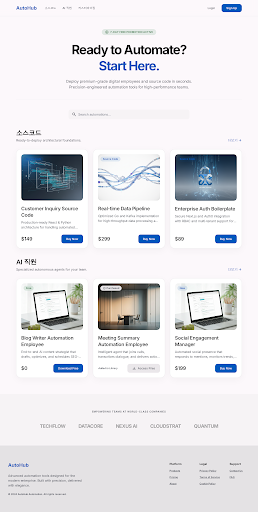
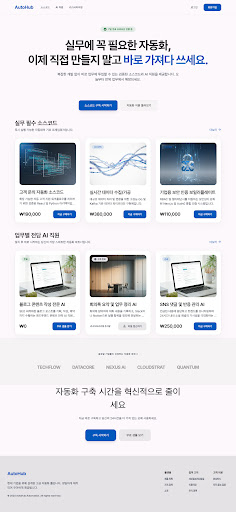
feat: redesign landing page based on Stitch screen specs

diff --git a/src/Landing.jsx b/src/Landing.jsx
@@ -1,82 +1,275 @@
-import React from 'react';
+import React, { useState, useEffect } from 'react';
 import { useNavigate } from 'react-router-dom';
+import { db, auth } from './firebase';
+import { collection, getDocs, addDoc, query, where } from 'firebase/firestore';
 import { useLanguage } from './LanguageContext';
+import { useToast } from './ToastContext';
+import { DEFAULT_CATALOG } from './defaultCatalog';
+
+const withTimeout = (promise, ms = 1000) => {
+  return Promise.race([
+    promise,
+    new Promise((_, reject) => setTimeout(() => reject(new Error("Firebase Timeout")), ms))
+  ]);
+};
 
 export default function Landing() {
-  const { lang, t } = useLanguage();
+  const [catalog, setCatalog] = useState([]);
+  const { lang, formatPrice, t } = useLanguage();
+  const { showToast } = useToast();
   const navigate = useNavigate();
 
+  useEffect(() => {
+    const fetchCatalog = async () => {
+      const merged = {};
+      DEFAULT_CATALOG.forEach((item) => {
+        merged[item.id] = item;
+      });
+
+      try {
+        const querySnapshot = await withTimeout(getDocs(collection(db, "catalog")));
+        querySnapshot.forEach((doc) => {
+          merged[doc.id] = { ...merged[doc.id], id: doc.id, ...doc.data() };
+        });
+      } catch (err) {
+        console.warn("Firestore get error (using DEFAULT_CATALOG only):", err);
+      }
+
+      try {
+        const localCustom = JSON.parse(localStorage.getItem("autohub_custom_catalog") || "{}");
+        Object.values(localCustom).forEach((item) => {
+          merged[item.id] = { ...merged[item.id], ...item };
+        });
+      } catch { /* ignore */ }
+
+      setCatalog(Object.values(merged));
+    };
+    fetchCatalog();
+  }, []);
+
+  const handleCheckout = async (productId, isFree) => {
+    const user = auth.currentUser;
+    const userUid = user ? user.uid : "demo-user-123";
+    
+    try {
+      let alreadyExists = false;
+      try {
+        const q = query(
+          collection(db, "libraries"),
+          where("userId", "==", userUid),
+          where("productId", "==", productId)
+        );
+        const existing = await withTimeout(getDocs(q));
+        alreadyExists = !existing.empty;
+      } catch (err) {
+        const localLibs = JSON.parse(localStorage.getItem("autohub_libraries") || "[]");
+        alreadyExists = localLibs.some(lib => lib.userId === userUid && lib.productId === productId);
+      }
+
+      if (alreadyExists) {
+        showToast(t.alreadyToast, "info");
+        navigate('/mypage');
+        return;
+      }
+
+      if (isFree) {
+        try {
+          await withTimeout(addDoc(collection(db, "libraries"), {
+            userId: userUid,
+            productId: productId,
+            method: "Free Promo",
+            unlockedAt: new Date()
+          }));
+        } catch (dbErr) {
+          const localLibs = JSON.parse(localStorage.getItem("autohub_libraries") || "[]");
+          localLibs.push({
+            userId: userUid,
+            productId: productId,
+            method: "Free Promo",
+            unlockedAt: new Date().toISOString()
+          });
+          localStorage.setItem("autohub_libraries", JSON.stringify(localLibs));
+        }
+        showToast("라이브러리에 추가되었습니다!", "success");
+        navigate('/mypage');
+      } else {
+        const tossCheckout = confirm(lang === 'ko' ? "결제를 진행하시겠습니까? (토스페이먼츠 시뮬레이션)" : "Proceed with checkout? (Toss Payments simulation)");
+        if (tossCheckout) {
+          try {
+            await withTimeout(addDoc(collection(db, "libraries"), {
+              userId: userUid,
+              productId: productId,
+              method: "Paid",
+              unlockedAt: new Date()
+            }));
+          } catch (dbErr) {
+            const localLibs = JSON.parse(localStorage.getItem("autohub_libraries") || "[]");
+            localLibs.push({
+              userId: userUid,
+              productId: productId,
+              method: "Paid",
+              unlockedAt: new Date().toISOString()
+            });
+            localStorage.setItem("autohub_libraries", JSON.stringify(localLibs));
+          }
+          showToast(t.paymentSuccess, "success");
+          navigate('/mypage');
+        }
+      }
+    } catch (err) {
+      console.error(err);
+      showToast("오류가 발생했습니다.", "error");
+    }
+  };
+
+  const sourceCodes = catalog.filter(p => p.type === '소스코드');
+  const aiEmployees = catalog.filter(p => p.type === 'AI 직원');
+
   return (
-    <div>
-      {/* Hero Section */}
+    <div className="bg-background text-on-background">
+      {/* Apple-Style Hero Header */}
       <header className="pt-40 pb-20 px-margin-mobile md:px-margin-desktop overflow-hidden">
         <div className="max-w-container-max mx-auto text-center flex flex-col items-center">
-          <div className="inline-flex items-center gap-2 bg-primary/5 text-primary px-4 py-1.5 rounded-full mb-8 border border-primary/10">
-            <span className="material-symbols-outlined text-[18px]">bolt</span>
-            <span className="font-label-sm text-label-sm">Expert Automation Assets</span>
+          <div className="inline-flex items-center gap-2 bg-secondary/10 text-secondary px-4 py-1.5 rounded-full mb-8 border border-secondary/20">
+            <span className="material-symbols-outlined text-[18px]" style={{ fontVariationSettings: "'FILL' 1" }}>stars</span>
+            <span className="font-label-sm text-label-sm tracking-wider uppercase">{t.promoBadge}</span>
           </div>
-          <h1 className="font-headline-lg-mobile md:font-display-lg text-headline-lg-mobile md:text-display-lg text-on-surface mb-6 max-w-[800px]" dangerouslySetInnerHTML={{ __html: t.heroTitle }} />
+          <h1 className="font-headline-lg-mobile md:font-display-lg text-headline-lg-mobile md:text-display-lg text-on-surface mb-6 max-w-[850px] leading-tight tracking-tighter" dangerouslySetInnerHTML={{ __html: t.heroTitle }} />
           <p className="font-body-md text-body-md md:font-body-lg md:text-body-lg text-on-surface-variant mb-10 max-w-[640px]">
             {t.heroDesc}
           </p>
-          <div className="flex flex-col sm:flex-row gap-4">
+          <div className="flex flex-col sm:flex-row gap-4 border-t border-outline-variant/20 pt-10 w-full justify-center">
             <button onClick={() => navigate('/catalog')} className="bg-primary text-on-primary font-label-md text-label-md px-8 py-4 rounded-xl shadow-lg active:scale-95 transition-all btn-animate">
-              소스코드 구독 시작하기
+              {t.btnStartSub}
             </button>
-            <button onClick={() => navigate('/catalog')} className="bg-surface-container-low text-on-surface font-label-md text-label-md px-8 py-4 rounded-xl border border-outline-variant/30 hover:bg-surface-container transition-colors btn-animate">
-              자동화 직원 둘러보기
+            <button onClick={() => navigate('/catalog')} className="bg-surface-container-low text-on-surface font-label-md text-label-md px-8 py-4 rounded-xl border border-outline-variant/30 hover:bg-surface-container-high active:scale-95 transition-all btn-animate">
+              {t.btnBrowseAgents}
             </button>
-          </div>
-          <div className="mt-20 w-full max-w-[1000px] relative">
-            <div className="absolute inset-0 bg-primary/20 blur-[100px] -z-10 rounded-full"></div>
-            <img alt="AutoHub Dashboard Preview" className="w-full h-auto rounded-2xl shadow-2xl border border-outline-variant/20" src="https://lh3.googleusercontent.com/aida-public/AB6AXuCDhpnHRksauDHoN09c78ANLww7sixMpWmGpUvKoeS3UIvAnL8AbUXcq23QBvShgfzzRGN5VXrrl9RvMv9Q8ehC4LeL3-MkYBvS_zjZNKZa4F3yF62PMBGZnMtUF_EfDjBoPc_qmVhkQa0bGYE9X_0fn-XPGP2kjh0DwIMEJYVVGYPTWmypIZPDKWk7nlinA4i0CdFd8-9H4pvj8COM068joq1zpMmq7h5euc1FA01l7JUHxr4aWjm7VV_SkwUB0Ks7Fu1dV5mgGAI"/>
           </div>
         </div>
       </header>
 
-      {/* Problem Statement Section */}
-      <section className="py-20 bg-surface-container-low px-margin-mobile md:px-margin-desktop">
-        <div className="max-w-container-max mx-auto">
-          <h2 className="font-headline-lg text-headline-lg text-center mb-16">자동화가 필요하지만 실행까지가 어렵습니다</h2>
-          <div className="grid grid-cols-1 md:grid-cols-5 gap-6">
-            <div className="bg-white p-8 rounded-2xl border border-outline-variant/30 flex flex-col items-center text-center">
-              <div className="w-12 h-12 bg-primary/10 text-primary rounded-xl flex items-center justify-center mb-6">
-                <span className="material-symbols-outlined">code_off</span>
-              </div>
-              <h3 className="font-label-md text-label-md mb-2">직접 개발 부담</h3>
-              <p className="font-label-sm text-label-sm text-on-surface-variant">코딩 없이 구축하기엔 한계가 명확합니다.</p>
-            </div>
-            <div className="bg-white p-8 rounded-2xl border border-outline-variant/30 flex flex-col items-center text-center">
-              <div className="w-12 h-12 bg-primary/10 text-primary rounded-xl flex items-center justify-center mb-6">
-                <span class="material-symbols-outlined">api</span>
-              </div>
-              <h3 className="font-label-md text-label-md mb-2">복잡한 API 설정</h3>
-              <p className="font-label-sm text-label-sm text-on-surface-variant">각 서비스별 API 연동은 매번 번거롭습니다.</p>
-            </div>
-            <div className="bg-white p-8 rounded-2xl border border-outline-variant/30 flex flex-col items-center text-center">
-              <div className="w-12 h-12 bg-primary/10 text-primary rounded-xl flex items-center justify-center mb-6">
-                <span class="material-symbols-outlined">bug_report</span>
-              </div>
-              <h3 className="font-label-md text-label-md mb-2">테스트 시간 소요</h3>
-              <p className="font-label-sm text-label-sm text-on-surface-variant">오류 수정과 안정화에 너무 많은 시간이 듭니다.</p>
-            </div>
-            <div className="bg-white p-8 rounded-2xl border border-outline-variant/30 flex flex-col items-center text-center">
-              <div className="w-12 h-12 bg-primary/10 text-primary rounded-xl flex items-center justify-center mb-6">
-                <span class="material-symbols-outlined">tune</span>
-              </div>
-              <h3 className="font-label-md text-label-md mb-2">커스텀의 한계</h3>
-              <p className="font-label-sm text-label-sm text-on-surface-variant">범용 툴은 우리 회사만의 로직을 담기 어렵습니다.</p>
-            </div>
-            <div className="bg-white p-8 rounded-2xl border border-outline-variant/30 flex flex-col items-center text-center">
-              <div className="w-12 h-12 bg-primary/10 text-primary rounded-xl flex items-center justify-center mb-6">
-                <span class="material-symbols-outlined">schedule</span>
-              </div>
-              <h3 className="font-label-md text-label-md mb-2">절대적 시간 부족</h3>
-              <p className="font-label-sm text-label-sm text-on-surface-variant">실무를 하면서 자동화까지 챙기기 불가능합니다.</p>
-            </div>
+      {/* Source Code Section (MOVED TO TOP) */}
+      <section className="py-12 px-margin-mobile md:px-margin-desktop max-w-container-max mx-auto">
+        <div className="flex justify-between items-end mb-8">
+          <div>
+            <h2 className="font-headline-lg text-headline-lg font-bold flex items-center gap-2">
+              <span className="material-symbols-outlined text-[28px] text-primary">code</span>
+              {t.secSourceCodeTitle}
+            </h2>
+            <p className="font-body-md text-on-surface-variant mt-1">{t.secSourceCodeDesc}</p>
+          </div>
+          <button onClick={() => navigate('/catalog')} className="flex items-center gap-1 text-primary font-label-md hover:underline group">
+            {t.viewMore}
+            <span className="material-symbols-outlined text-[18px] group-hover:translate-x-1 transition-transform">arrow_forward</span>
+          </button>
+        </div>
+        <div className="grid grid-cols-1 md:grid-cols-2 lg:grid-cols-3 gap-6">
+          {sourceCodes.slice(0, 3).map(product => (
+            <ProductCard key={product.id} product={product} onCheckout={handleCheckout} formatPrice={formatPrice} t={t} lang={lang} />
+          ))}
+        </div>
+      </section>
+
+      {/* AI Employees Section */}
+      <section className="py-12 px-margin-mobile md:px-margin-desktop max-w-container-max mx-auto mb-16">
+        <div className="flex justify-between items-end mb-8">
+          <div>
+            <h2 className="font-headline-lg text-headline-lg font-bold flex items-center gap-2">
+              <span className="material-symbols-outlined text-[28px] text-secondary">support_agent</span>
+              {t.secAiAgentTitle}
+            </h2>
+            <p className="font-body-md text-on-surface-variant mt-1">{t.secAiAgentDesc}</p>
+          </div>
+          <button onClick={() => navigate('/catalog')} className="flex items-center gap-1 text-primary font-label-md hover:underline group">
+            {t.viewMore}
+            <span className="material-symbols-outlined text-[18px] group-hover:translate-x-1 transition-transform">arrow_forward</span>
+          </button>
+        </div>
+        <div className="grid grid-cols-1 md:grid-cols-2 lg:grid-cols-3 gap-6">
+          {aiEmployees.slice(0, 3).map(product => (
+            <ProductCard key={product.id} product={product} onCheckout={handleCheckout} formatPrice={formatPrice} t={t} lang={lang} />
+          ))}
+        </div>
+      </section>
+
+      {/* Trust Section */}
+      <section className="bg-surface-container-low py-16 px-margin-mobile md:px-margin-desktop">
+        <div className="max-w-container-max mx-auto text-center">
+          <p className="font-label-sm text-label-sm uppercase tracking-widest text-on-surface-variant mb-12">
+            {t.trustTitle}
+          </p>
+          <div className="flex flex-wrap justify-center items-center gap-12 md:gap-16 opacity-40 grayscale select-none">
+            <span className="font-headline-md text-headline-md font-bold tracking-tighter">TECHFLOW</span>
+            <span className="font-headline-md text-headline-md font-bold tracking-tighter">DATACORE</span>
+            <span className="font-headline-md text-headline-md font-bold tracking-tighter">NEXUS AI</span>
+            <span className="font-headline-md text-headline-md font-bold tracking-tighter">CLOUDSTRAT</span>
+            <span className="font-headline-md text-headline-md font-bold tracking-tighter">QUANTUM</span>
           </div>
         </div>
       </section>
+
+      {/* CTA Section */}
+      <section className="py-24 text-center px-margin-mobile md:px-margin-desktop max-w-container-max mx-auto">
+        <div className="max-w-3xl mx-auto">
+          <h2 className="font-display-lg text-[36px] md:text-[48px] mb-6 leading-tight font-bold">
+            {t.ctaTitle}
+          </h2>
+          <p className="font-body-lg text-on-surface-variant mb-12">
+            {t.ctaDesc}
+          </p>
+          <div className="flex flex-col sm:flex-row items-center justify-center gap-4">
+            <button onClick={() => navigate('/catalog')} className="w-full sm:w-auto bg-primary text-on-primary font-label-md text-label-md px-10 py-5 rounded-2xl hover:opacity-90 active:scale-95 transition-all shadow-lg btn-animate">
+              {t.btnStartSubBottom}
+            </button>
+            <button onClick={() => navigate('/catalog')} className="w-full sm:w-auto bg-surface-container-high text-on-surface font-label-md text-label-md px-10 py-5 rounded-2xl hover:bg-surface-container-highest active:scale-95 transition-all btn-animate">
+              {t.btnViewSamples}
+            </button>
+          </div>
+        </div>
+      </section>
+    </div>
+  );
+}
+
+function ProductCard({ product, onCheckout, formatPrice, t, lang }) {
+  const isFree = product.price === 0 || product.method === 'Free Promo';
+  const badgeText = isFree ? (lang === 'ko' ? '무료' : 'Free') : (product.type === '소스코드' ? 'Source Code' : 'New');
+  const badgeColor = isFree ? 'bg-secondary/10 text-secondary' : 'bg-primary/10 text-primary';
+  const localizedTitle = lang === 'en' && product.title_en ? product.title_en : product.title;
+  const localizedDesc = lang === 'ko' && product.desc_ko ? product.desc_ko : product.desc;
+
+  const navigate = useNavigate();
+
+  return (
+    <div 
+      onClick={() => navigate(`/product/${product.id}`)}
+      className="product-card bg-surface-container-lowest border border-[#E5E5E7] rounded-[24px] p-6 premium-card-shadow flex flex-col group hover:border-primary/30 transition-all duration-300 premium-card-hover cursor-pointer"
+    >
+      <div className="relative rounded-[16px] overflow-hidden aspect-[4/3] mb-6">
+        <img alt={localizedTitle} className="w-full h-full object-cover transition-transform duration-500 group-hover:scale-105" src={product.image}/>
+        <div className={`absolute top-3 left-3 ${badgeColor} px-3 py-1 rounded-full flex items-center gap-1 backdrop-blur-md`}>
+          <span className="font-label-sm text-label-sm">{badgeText}</span>
+        </div>
+      </div>
+      <div className="flex-grow">
+        <h3 className="font-headline-md text-headline-md mb-2 font-bold">{localizedTitle}</h3>
+        <p className="font-body-md text-body-md text-on-surface-variant line-clamp-2 mb-6">
+          {localizedDesc}
+        </p>
+      </div>
+      <div className="flex items-center justify-between mt-auto">
+        <span className="font-headline-md text-headline-md font-bold">{formatPrice(product.price)}</span>
+        <button 
+          onClick={(e) => {
+            e.stopPropagation();
+            onCheckout(product.id, isFree);
+          }} 
+          className="bg-primary text-on-primary font-label-md text-label-md px-6 py-3 rounded-xl hover:opacity-90 active:scale-95 transition-all btn-animate"
+        >
+          {isFree ? (lang === 'ko' ? '무료 다운로드' : 'Download Free') : (lang === 'ko' ? '구매하기' : 'Buy Now')}
+        </button>
+      </div>
     </div>
   );
 }

diff --git a/src/LanguageContext.jsx b/src/LanguageContext.jsx
@@ -6,8 +6,8 @@ export const useLanguage = () => useContext(LanguageContext);
 
 export const TRANSLATIONS = {
   ko: {
-    heroTitle: "자동화는 필요한데,<br/>매번 직접 만들기 힘드셨나요?",
-    heroDesc: "최고 수준의 소스코드와 24/7 일하는 AI 직원을 통해 반복 업무에서 해방되세요.",
+    heroTitle: "실무에 꼭 필요한 자동화,<br/>이제 직접 만들지 말고&nbsp;<span class=\"text-primary\">바로 가져다 쓰세요.</span>",
+    heroDesc: "복잡한 개발 없이 바로 업무에 투입할 수 있는 검증된 소스코드와 AI 직원을 제공합니다. 오늘부터 반복 업무에서 해방되세요.",
     login: "로그인",
     logout: "로그아웃",
     searchPlaceholder: "자동화 상품 검색...",
@@ -15,11 +15,24 @@ export const TRANSLATIONS = {
     buyNow: "구매하기",
     addedToast: "라이브러리에 추가되었습니다!",
     alreadyToast: "이미 라이브러리에 존재하는 상품입니다.",
-    paymentSuccess: "토스페이 결제 승인이 완료되었습니다!"
+    paymentSuccess: "토스페이 결제 승인이 완료되었습니다!",
+    promoBadge: "7일 무료 프로모션 진행 중",
+    btnStartSub: "소스코드 구독 시작하기",
+    btnBrowseAgents: "자동화 직원 둘러보기",
+    secSourceCodeTitle: "실무 필수 소스코드",
+    secSourceCodeDesc: "즉시 실행 가능한 자동화의 기초 프레임워크입니다.",
+    secAiAgentTitle: "업무별 전담 AI 직원",
+    secAiAgentDesc: "설치 후 바로 시작하는 당신의 가장 스마트한 자동화 파트너입니다.",
+    viewMore: "더보기",
+    trustTitle: "글로벌 기업들이 신뢰하는 자동화 파트너",
+    ctaTitle: "자동화 구축 시간을 혁신적으로 줄이세요",
+    ctaDesc: "지금 바로 구독하고 당신의 24시간을 더 가치 있는 곳에 사용하세요.",
+    btnStartSubBottom: "구독 시작하기",
+    btnViewSamples: "무료 샘플 보기"
   },
   en: {
-    heroTitle: "Need Automation but<br/>Tired of Building It Yourself?",
-    heroDesc: "Free yourself from repetitive tasks with elite-level source code and 24/7 autonomous digital employees.",
+    heroTitle: "Essential Work Automation,<br/>Don't Build from Scratch&nbsp;<span class=\"text-primary\">Just Plug & Play.</span>",
+    heroDesc: "Get proven source code and AI employees ready for action without complex development. Break free from repetitive tasks today.",
     login: "Login",
     logout: "Logout",
     searchPlaceholder: "Search automations...",
@@ -27,7 +40,20 @@ export const TRANSLATIONS = {
     buyNow: "Buy Now",
     addedToast: "Added to your library!",
     alreadyToast: "Already in your library.",
-    paymentSuccess: "Toss Payments checkout confirmed successfully!"
+    paymentSuccess: "Toss Payments checkout confirmed successfully!",
+    promoBadge: "7-Day Free Trial Promotion Active",
+    btnStartSub: "Start Source Code Subscription",
+    btnBrowseAgents: "Browse Digital Employees",
+    secSourceCodeTitle: "Essential Source Code",
+    secSourceCodeDesc: "Basic frameworks for instantly executable automation.",
+    secAiAgentTitle: "Dedicated AI Employees",
+    secAiAgentDesc: "Your smartest automation partners, ready to go right after installation.",
+    viewMore: "View More",
+    trustTitle: "Trusted Automation Partner for Global Enterprises",
+    ctaTitle: "Revolutionize Your Automation Build Time",
+    ctaDesc: "Subscribe today and invest your 24 hours where they matter most.",
+    btnStartSubBottom: "Start Subscription",
+    btnViewSamples: "View Free Samples"
   }
 };
 